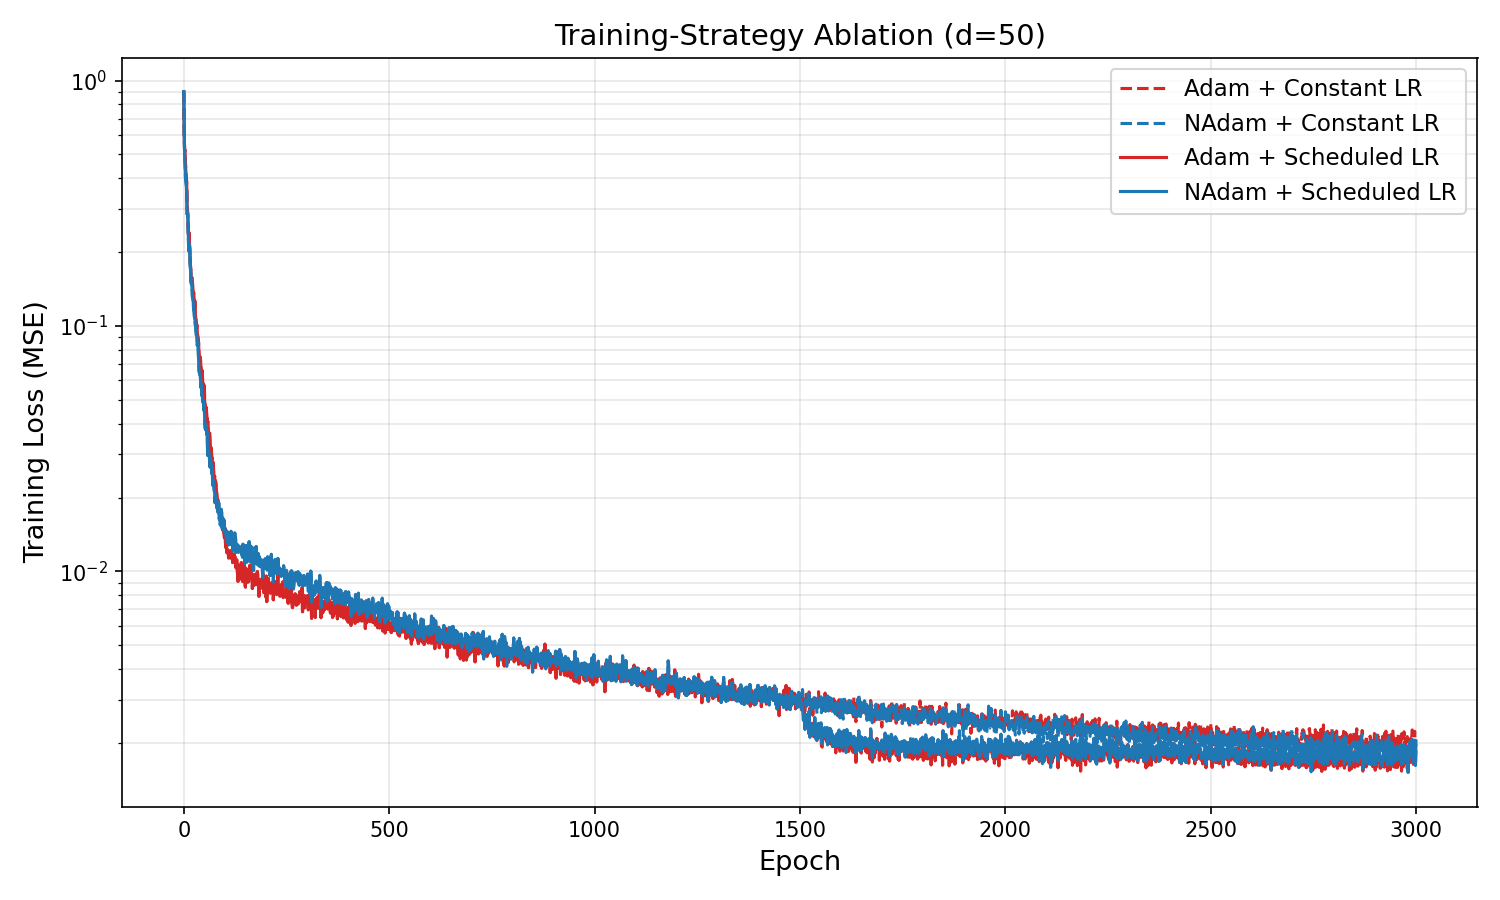
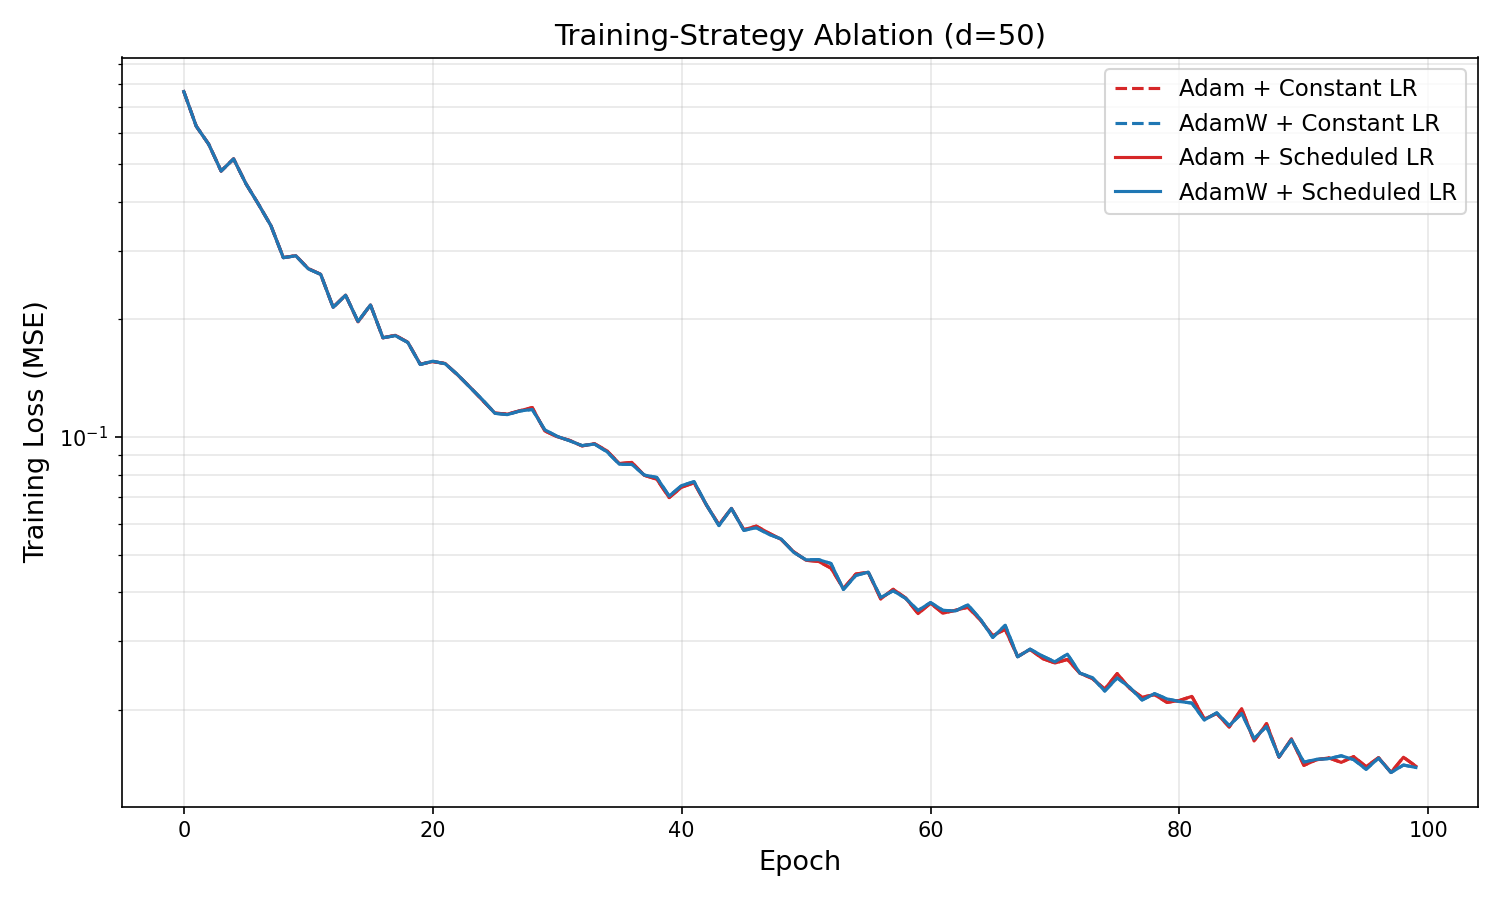
fix bug for greeks and check all new files

diff --git a/experiments/phase2_scaling.py b/experiments/phase2_scaling.py
@@ -92,17 +92,17 @@ def mc_greeks_fd_timed(cfg, n_paths=MC_GREEKS_PATHS, batch_size=MC_GREEKS_BATCH,
         with torch.no_grad():
             dW_S, dW_v, _, dN, _, J = sample_noises(bcfg, dev)
 
-            S0_base = np.full(d, cfg.S0)
+            S0_base = torch.full((d,), cfg.S0, dtype=torch.float32, device=dev)
 
             for i in range(d):
-                S0_up = S0_base.copy()
+                S0_up = S0_base.clone()
                 S0_up[i] += eps_S
                 bcfg_up = copy.copy(bcfg)
                 bcfg_up.S0 = S0_up
                 X_up = generate_paths(bcfg_up, dev, dW_S, dW_v, dN, J)
                 _basket_payoff(X_up, cfg, dev)
 
-                S0_dn = S0_base.copy()
+                S0_dn = S0_base.clone()
                 S0_dn[i] -= eps_S
                 bcfg_dn = copy.copy(bcfg)
                 bcfg_dn.S0 = S0_dn

diff --git a/src/networks.py b/src/networks.py
@@ -41,7 +41,8 @@ class BNNet(nn.Module):
     def __init__(self, in_dim: int, out_dim: int):
         super().__init__()
         h = in_dim + 20
-        self.bn0 = nn.BatchNorm1d(in_dim)
+        
+        
         self.layers = nn.Sequential(
             nn.Linear(in_dim, h),
             nn.ReLU(),